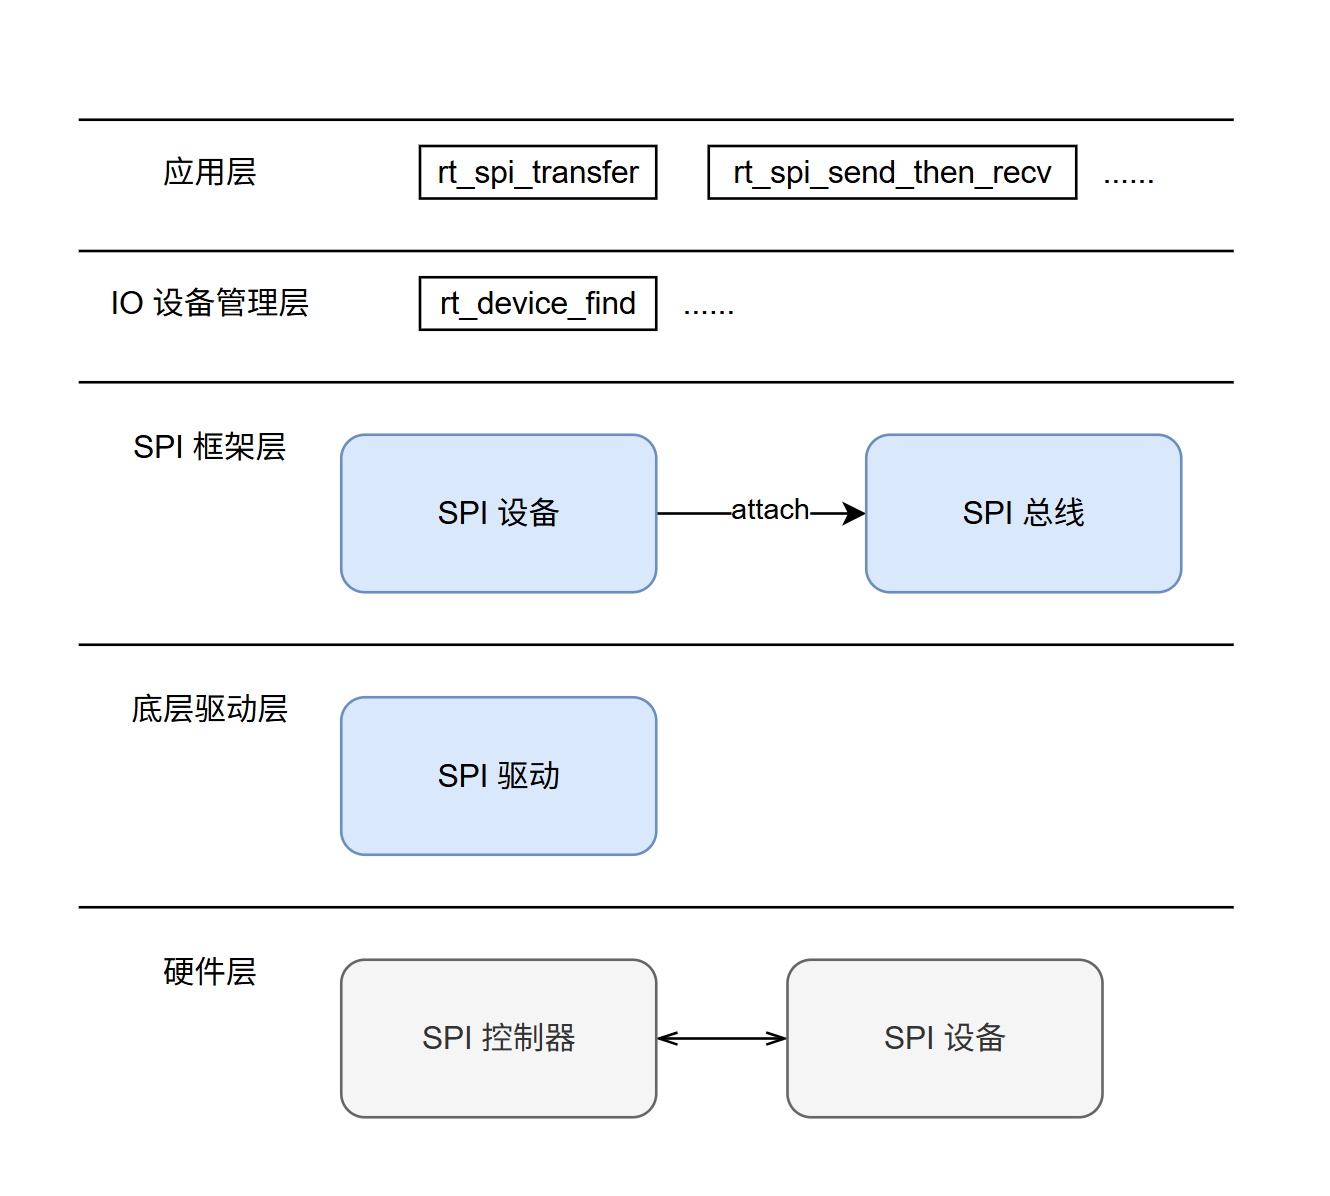
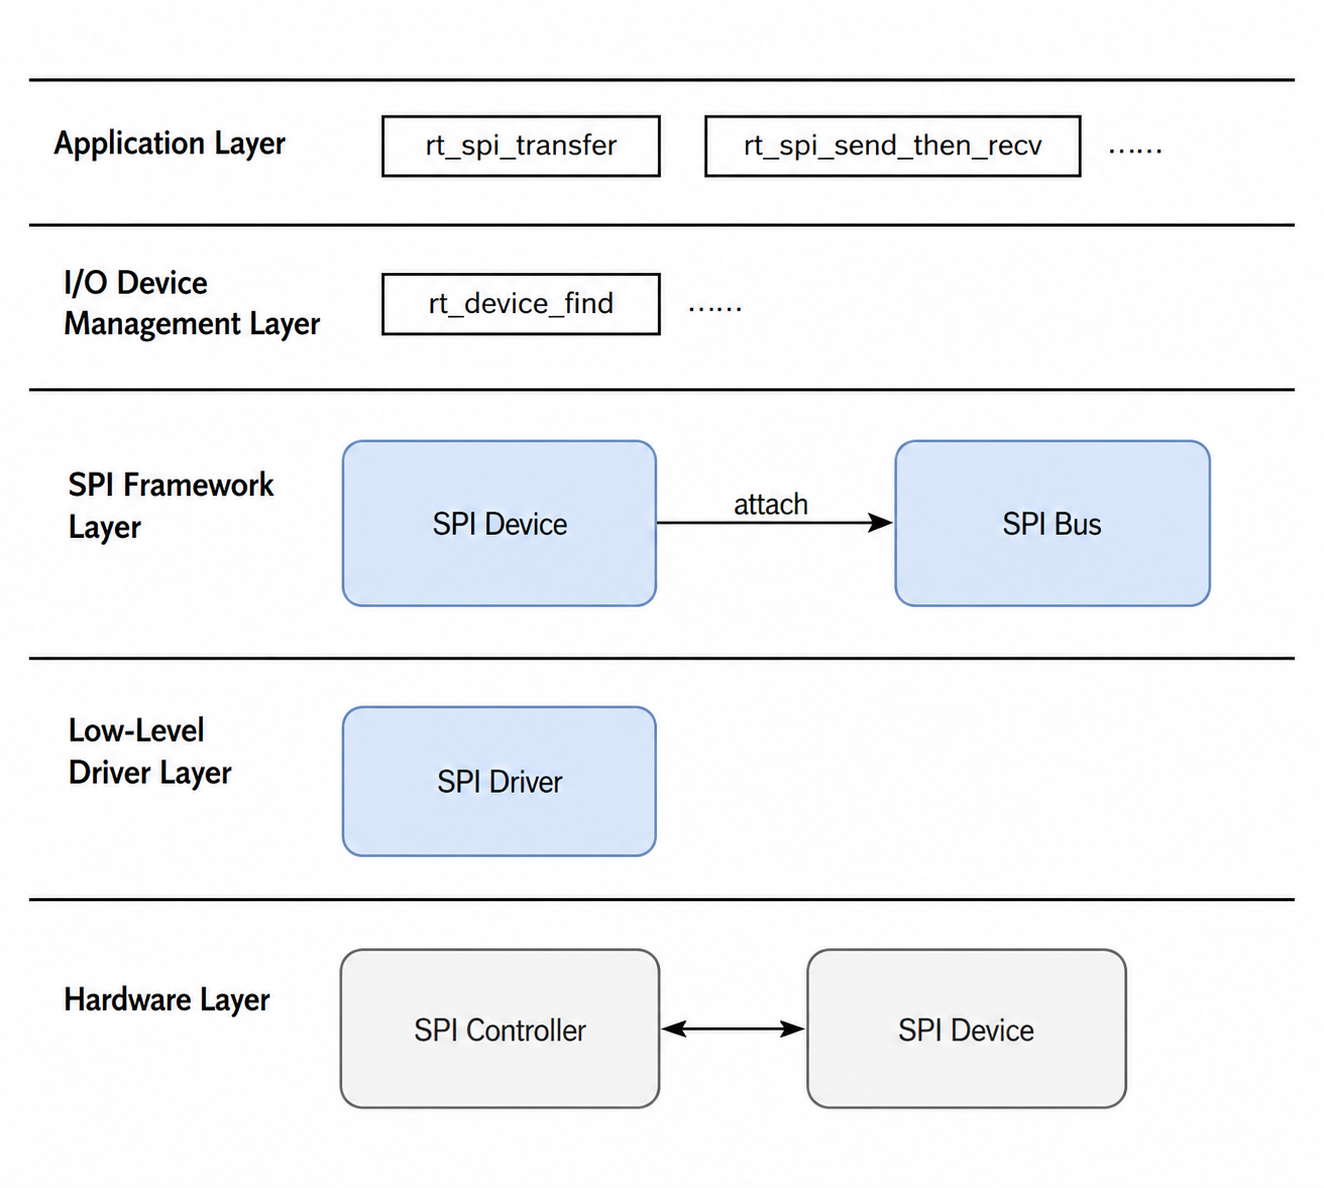
esos index, pics in enlgish

Changed region(s): [[0.031, 0.3114, 0.96, 0.7163], [0.031, 0.0623, 0.96, 0.2803], [0.031, 0.6852, 0.96, 0.9343]]

diff --git a/en/k3_buildroot/esos/esos_driver/index.md b/en/k3_buildroot/esos/esos_driver/index.md
@@ -2,7 +2,7 @@
 sidebar_position: 2
 ---
 
-# ESOS 驱动
+# ESOS Drivers
 
 - [GPIO](gpio.md)
 - [PWM](pwm.md)
